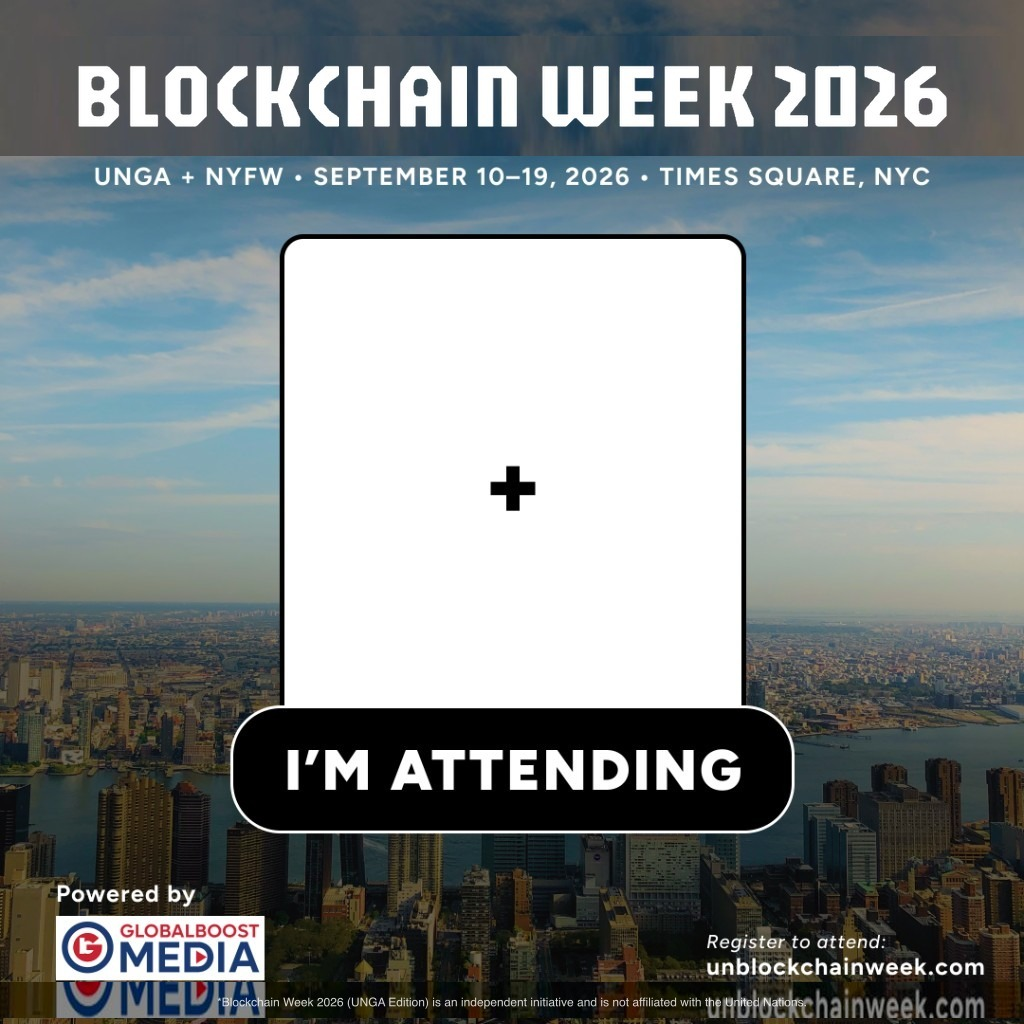
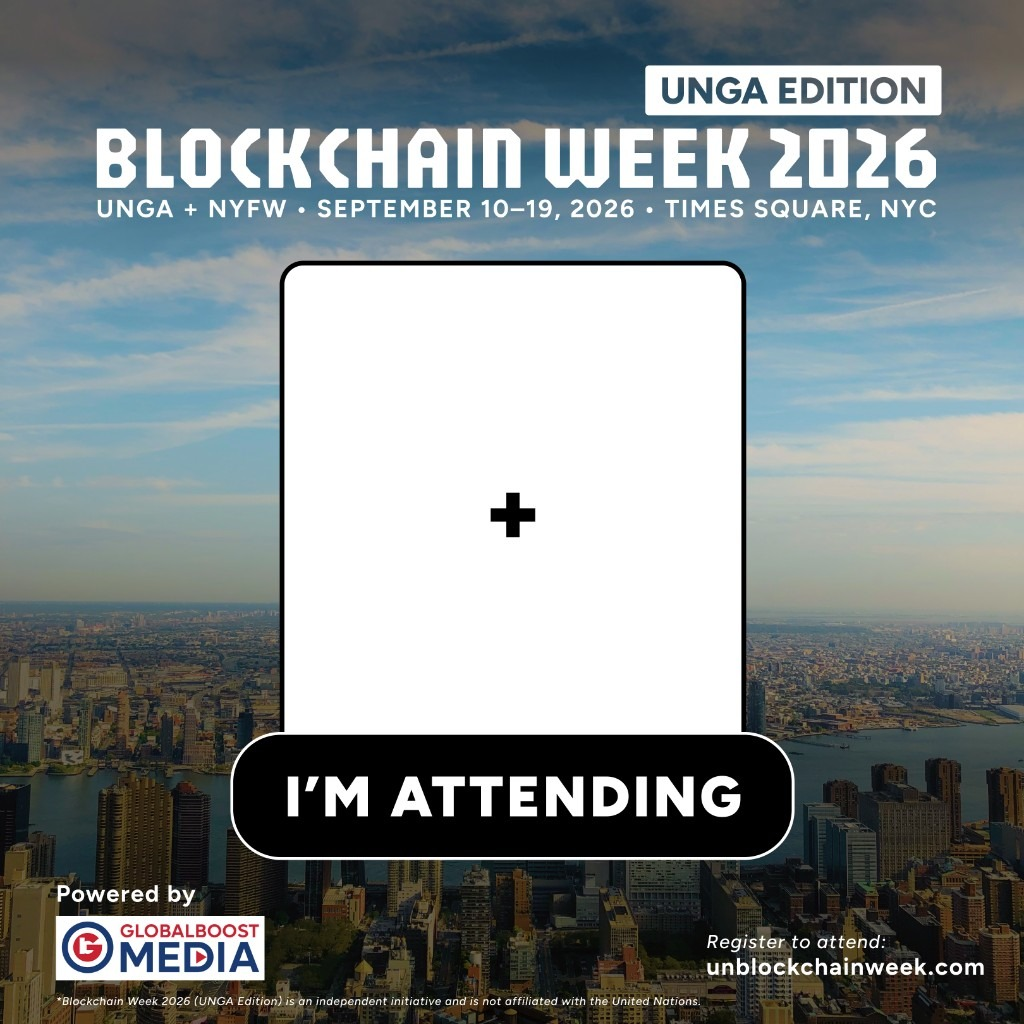
Improve partnerships content, forms, attending template, and responsiveness.
Rename /the-conference to /conference with a redirect, add Times Square Billboard sponsorship details and phone fields, refresh I'm Attending, and tighten mobile layout across key surfaces.

diff --git a/apps/web/components/partnerships/PartnershipsPageContent.tsx b/apps/web/components/partnerships/PartnershipsPageContent.tsx
@@ -9,6 +9,7 @@ import { SectionHeader } from "@/components/ui/SectionHeader";
 import {
   getSponsorshipAddons,
   getSponsorshipComparison,
+  getSponsorshipPackagesNote,
   getSponsorshipPricingBanner,
   getSponsorshipPricingPhases,
   getSponsorshipTiers,
@@ -35,6 +36,7 @@ export function PartnershipsPageContent() {
   const comparison = getSponsorshipComparison();
   const pricingPhases = getSponsorshipPricingPhases();
   const pricingBanner = getSponsorshipPricingBanner();
+  const packagesNote = getSponsorshipPackagesNote();
 
   const [activeTier, setActiveTier] = useState<SponsorshipTier | null>(null);
   const [selectedTier, setSelectedTier] = useState("presidential");
@@ -161,7 +163,7 @@ export function PartnershipsPageContent() {
             className="mb-12"
           />
 
-          <div className="grid gap-5 md:grid-cols-2 xl:grid-cols-5">
+          <div className="grid gap-5 md:grid-cols-2 lg:grid-cols-3 xl:grid-cols-5">
             {tiers.map((tier) => {
               const isPresidential = tier.id === "presidential";
               const isPlatinum = tier.id === "platinum";
@@ -235,6 +237,12 @@ export function PartnershipsPageContent() {
               );
             })}
           </div>
+
+          {packagesNote ? (
+            <p className="mx-auto mt-8 max-w-4xl text-sm leading-relaxed text-ink-muted">
+              {packagesNote}
+            </p>
+          ) : null}
         </div>
       </section>
 
@@ -406,7 +414,7 @@ export function PartnershipsPageContent() {
                 </li>
               </ul>
               <Link
-                href="/the-conference"
+                href="/conference"
                 className="mt-6 inline-flex text-sm font-semibold text-un-blue hover:underline"
               >
                 About the 2-day conference →
@@ -453,7 +461,17 @@ export function PartnershipsPageContent() {
                   <FormField name="name" required placeholder="Your name" label="Name" />
                   <FormField name="email" type="email" required placeholder="you@company.com" label="Email" />
                 </div>
-                <FormField name="company" placeholder="Company" label="Company" />
+                <div className="grid gap-4 sm:grid-cols-2">
+                  <FormField name="company" placeholder="Company" label="Company" />
+                  <FormField
+                    name="phone"
+                    type="tel"
+                    required
+                    autoComplete="tel"
+                    placeholder="+1 202 555 0100"
+                    label="Phone Number (with country code)"
+                  />
+                </div>
                 <FormSelect name="tier" label="Interested in" defaultValue={selectedTier}>
                   {tiers.map((t) => (
                     <option key={t.id} value={t.id}>

diff --git a/apps/web/components/layout/SiteHeader.tsx b/apps/web/components/layout/SiteHeader.tsx
@@ -11,7 +11,7 @@ import { BRAND_NAME, LOGO_HEIGHT, LOGO_MAIN, LOGO_WIDTH, TICKETS_ANCHOR, TICKETS
 const NAV_LINKS = [
   { name: "Home", href: "/" },
   { name: "About", href: "/about" },
-  { name: "Conference", href: "/the-conference" },
+  { name: "Conference", href: "/conference" },
   { name: "Speakers", href: "/speakers" },
   { name: "Partnerships", href: "/partnerships" },
 ] as const;
@@ -39,7 +39,7 @@ export function SiteHeader() {
   const [mobileMoreOpen, setMobileMoreOpen] = useState(false);
   const moreRef = useRef<HTMLDivElement>(null);
   const pathname = usePathname();
-  const ticketsHref = pathname === "/the-conference" ? TICKETS_SECTION_HASH : TICKETS_ANCHOR;
+  const ticketsHref = pathname === "/conference" ? TICKETS_SECTION_HASH : TICKETS_ANCHOR;
 
   useEffect(() => {
     function handleClickOutside(event: MouseEvent) {
@@ -51,6 +51,30 @@ export function SiteHeader() {
     document.addEventListener("mousedown", handleClickOutside);
     return () => document.removeEventListener("mousedown", handleClickOutside);
   }, []);
+
+  useEffect(() => {
+    setOpen(false);
+    setMoreOpen(false);
+    setMobileMoreOpen(false);
+  }, [pathname]);
+
+  useEffect(() => {
+    if (!open) return;
+    const previousOverflow = document.body.style.overflow;
+    document.body.style.overflow = "hidden";
+    return () => {
+      document.body.style.overflow = previousOverflow;
+    };
+  }, [open]);
+
+  useEffect(() => {
+    if (!open) return;
+    function handleKeyDown(event: KeyboardEvent) {
+      if (event.key === "Escape") setOpen(false);
+    }
+    document.addEventListener("keydown", handleKeyDown);
+    return () => document.removeEventListener("keydown", handleKeyDown);
+  }, [open]);
 
   const linkClass = (href: string) =>
     cn(
@@ -138,7 +162,7 @@ export function SiteHeader() {
       </nav>
 
       {open && (
-        <div className="border-t border-black/10 bg-white px-4 py-4 lg:hidden">
+        <div className="max-h-[calc(100dvh-4rem)] overflow-y-auto border-t border-black/10 bg-white px-4 py-4 lg:hidden">
           <div className="flex flex-col gap-3">
             {NAV_LINKS.map((item) => (
               <Link

diff --git a/apps/web/components/home/HeroVideo.tsx b/apps/web/components/home/HeroVideo.tsx
@@ -38,13 +38,13 @@ export function HeroVideo() {
             fetchPriority="high"
           />
 
-          {/* Headline – two lines as specified */}
+          {/* Headline – two lines; scale down on narrow screens so nowrap never clips */}
           <h1 className="heading-font leading-[0.95] tracking-tight">
-            <span className="block whitespace-nowrap text-[clamp(1.5rem,7.3vw,5.5rem)] text-runway-white sm:text-[clamp(2.25rem,8vw,5.5rem)]">
+            <span className="block whitespace-nowrap text-[clamp(1.15rem,5.8vw,5.5rem)] text-runway-white sm:text-[clamp(2.25rem,8vw,5.5rem)]">
               BITCOIN.{" "}
               <span className="gradient-text">AI & ENERGY.</span>
             </span>
-            <span className="mt-2 block whitespace-nowrap text-[clamp(1.5rem,7.3vw,5.5rem)] sm:mt-3 sm:text-[clamp(2.25rem,8vw,5.5rem)]">
+            <span className="mt-2 block whitespace-nowrap text-[clamp(1.15rem,5.8vw,5.5rem)] sm:mt-3 sm:text-[clamp(2.25rem,8vw,5.5rem)]">
               <span className="text-fashion">SPACE.</span>{" "}
               <span className="text-runway-white">FASHION.</span>
             </span>

diff --git a/apps/web/components/collateral/ImAttendingGenerator.tsx b/apps/web/components/collateral/ImAttendingGenerator.tsx
@@ -12,16 +12,18 @@ const DOWNLOAD_NAME = "blockchain-week-unga-edition-im-attending.png";
 /** Normalized rects measured from the 1024×1024 empty template. */
 const PHOTO_FRAME = {
   x: 0.2783,
-  y: 0.2334,
+  y: 0.2598,
   w: 0.4453,
-  h: 0.458,
+  // Stop at the top of the "I'm Attending" badge so the badge stays in front.
+  h: 0.4551,
 } as const;
 
 const BADGE_OVERLAY = {
-  x: 0.2344,
-  y: 0.6885,
-  w: 0.5313,
-  h: 0.0566,
+  // Slightly padded so the pill + white stroke redraw cleanly over the photo edge.
+  x: 0.2256,
+  y: 0.7129,
+  w: 0.5488,
+  h: 0.125,
 } as const;
 
 const FRAME_RADIUS = 0.0176; // ~18px at 1024
@@ -263,7 +265,7 @@ export function ImAttendingGenerator({ copy }: { copy: ReactNode }) {
               Photo added — ready to download
             </p>
           ) : (
-            <p className="whitespace-nowrap text-[11px] text-white/55 sm:text-sm">
+            <p className="text-[11px] leading-relaxed text-white/55 sm:text-sm">
               Tip: use a clear headshot. Processed in your browser only.
             </p>
           )}

diff --git a/apps/web/components/about/AboutPageContent.tsx b/apps/web/components/about/AboutPageContent.tsx
@@ -4,7 +4,7 @@ import { Globe2, Megaphone, Network } from "lucide-react";
 import { SectionHeader } from "@/components/ui/SectionHeader";
 import { TestimonialsSection } from "@/components/ui/TestimonialsSection";
 import { getAboutContent } from "@/lib/content";
-import { EVENT_DATES, EVENT_LOCATION, TICKETS_ANCHOR } from "@/lib/brand-constants";
+import { BRAND_NAME, EVENT_DATES, EVENT_LOCATION, TICKETS_ANCHOR } from "@/lib/brand-constants";
 
 const HIGHLIGHT_ICONS = [Megaphone, Network, Globe2];
 
@@ -32,9 +32,7 @@ export function AboutPageContent() {
             UNGA + NYFW 2026 · {EVENT_DATES} · {EVENT_LOCATION}
           </p>
           <h1 className="heading-font mt-4 text-4xl leading-tight text-runway-white sm:text-5xl lg:text-6xl">
-            About Blockchain Week
-            <br />
-            UNGA Edition
+            About {BRAND_NAME}
           </h1>
           <p className="mx-auto mt-5 max-w-2xl text-lg leading-relaxed text-white/75">
             The premier platform where corporations and visionary leaders speak directly to the world&apos;s most

diff --git a/apps/web/app/api/partnerships/route.ts b/apps/web/app/api/partnerships/route.ts
@@ -6,6 +6,7 @@ import { sendFormEmail } from "@/lib/send-form-email";
 const schema = z.object({
   name: z.string().min(1),
   email: z.string().email(),
+  phone: z.string().min(1),
   company: z.string().optional(),
   tier: z.string().optional(),
   message: z.string().optional(),
@@ -19,7 +20,7 @@ export async function POST(request: NextRequest) {
     await sendFormEmail({
       to: SPONSORSHIP_EMAIL,
       subject: `Partnership Inquiry: ${body.company || body.name}`,
-      text: `Name: ${body.name}\nEmail: ${body.email}\nCompany: ${body.company ?? ""}\nTier: ${body.tier ?? ""}\n\n${body.message ?? ""}`,
+      text: `Name: ${body.name}\nEmail: ${body.email}\nPhone: ${body.phone}\nCompany: ${body.company ?? ""}\nTier: ${body.tier ?? ""}\n\n${body.message ?? ""}`,
       replyTo: body.email,
     });
 

diff --git a/apps/web/app/contact/page.tsx b/apps/web/app/contact/page.tsx
@@ -101,6 +101,14 @@ export default function ContactPage() {
                   <FormField name="name" required placeholder="Your name" label="Name" />
                   <FormField name="email" type="email" required placeholder="you@email.com" label="Email" />
                 </div>
+                <FormField
+                  name="phone"
+                  type="tel"
+                  required
+                  autoComplete="tel"
+                  placeholder="+1 202 555 0100"
+                  label="Phone Number (with country code)"
+                />
                 <FormTextarea
                   name="message"
                   required

diff --git a/apps/web/app/im-attending/page.tsx b/apps/web/app/im-attending/page.tsx
@@ -32,7 +32,7 @@ export default function ImAttendingPage() {
         <ImAttendingGenerator
           copy={
             <header className="w-full">
-              <p className="whitespace-nowrap text-[10px] font-semibold uppercase tracking-[0.18em] text-un-blue sm:text-xs sm:tracking-[0.22em]">
+              <p className="text-[10px] font-semibold uppercase tracking-[0.12em] text-un-blue sm:whitespace-nowrap sm:text-xs sm:tracking-[0.22em]">
                 {EVENT_DATES} · {EVENT_LOCATION}
               </p>
               <h1 className="heading-font mt-3 text-[2.35rem] leading-[0.95] text-runway-white sm:mt-4 sm:text-5xl lg:text-6xl">

diff --git a/apps/web/app/api/contact/route.ts b/apps/web/app/api/contact/route.ts
@@ -6,6 +6,7 @@ import { sendFormEmail } from "@/lib/send-form-email";
 const schema = z.object({
   name: z.string().min(1),
   email: z.string().email(),
+  phone: z.string().min(1),
   message: z.string().min(1),
 });
 
@@ -17,7 +18,7 @@ export async function POST(request: NextRequest) {
     await sendFormEmail({
       to: CONTACT_EMAIL,
       subject: `Contact from ${body.name}`,
-      text: `From: ${body.name} (${body.email})\n\n${body.message}`,
+      text: `From: ${body.name} (${body.email})\nPhone: ${body.phone}\n\n${body.message}`,
       replyTo: body.email,
     });
 

diff --git a/apps/web/next.config.ts b/apps/web/next.config.ts
@@ -10,6 +10,7 @@ const nextConfig: NextConfig = {
   async redirects() {
     return [
       { source: "/events", destination: "https://luma.com/unblockchainweek", permanent: true },
+      { source: "/the-conference", destination: "/conference", permanent: true },
       { source: "/gallery", destination: "/", permanent: true },
       { source: "/key-themes", destination: "/#key-themes", permanent: true },
       { source: "/tickets", destination: "/#tickets", permanent: true },

diff --git a/apps/web/components/home/TicketPricing.tsx b/apps/web/components/home/TicketPricing.tsx
@@ -24,7 +24,7 @@ export function TicketPricing() {
           {tiers.map((tier) => (
             <div
               key={tier.id}
-              className={`relative flex h-full flex-col rounded-2xl border p-8 ${
+              className={`relative flex h-full flex-col rounded-2xl border p-5 sm:p-8 ${
                 tier.popular
                   ? "border-gold bg-gradient-to-b from-gold/10 to-transparent"
                   : "border-white/10 bg-white/5"

diff --git a/apps/web/lib/content.ts b/apps/web/lib/content.ts
@@ -119,6 +119,11 @@ export function getSponsorshipPricingBanner(): { label: string; cta: string } {
   return sponsorshipData.pricingBanner as { label: string; cta: string };
 }
 
+export function getSponsorshipPackagesNote(): string | null {
+  const note = (sponsorshipData as { packagesNote?: string }).packagesNote;
+  return note?.trim() ? note : null;
+}
+
 export function getAboutContent(): AboutContent {
   return aboutData as AboutContent;
 }
